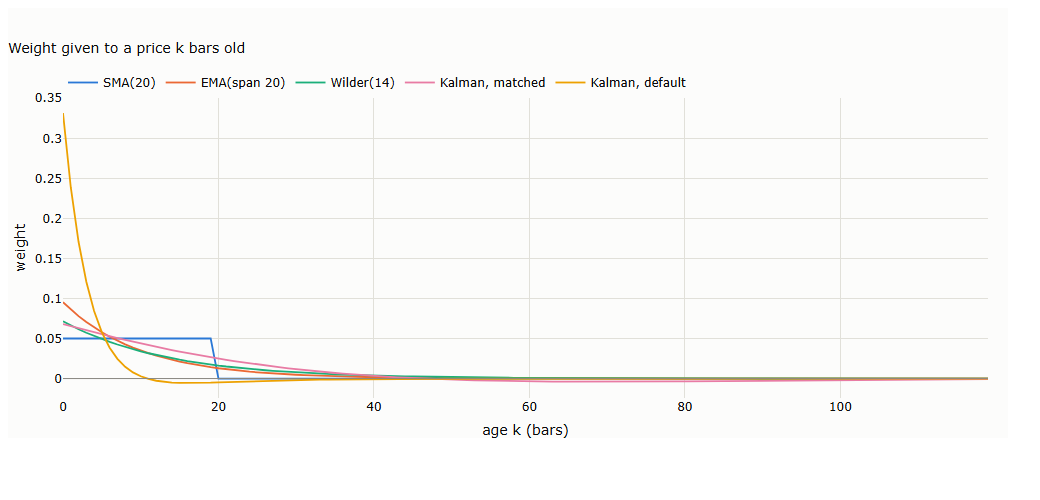
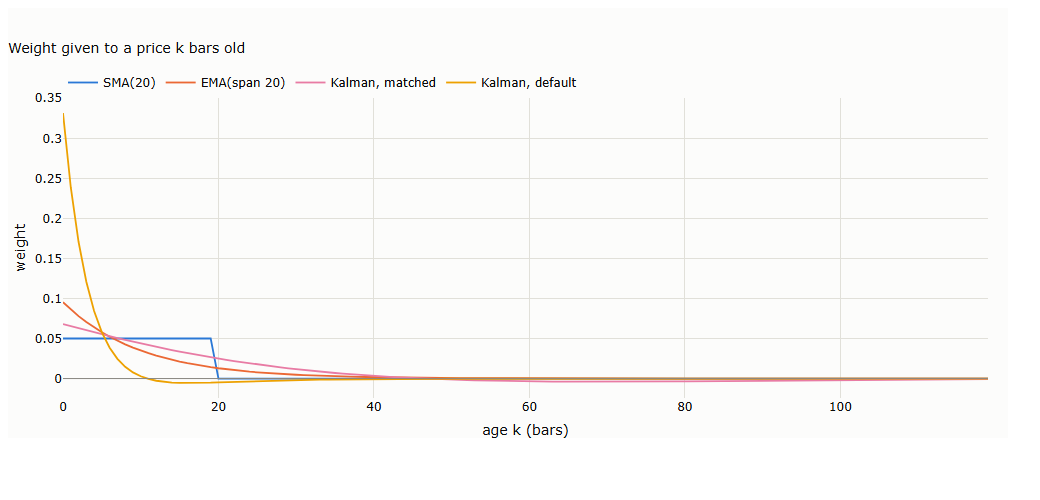
Move Wilder smoothing out of Lecture 2 into Lecture 3
- Lecture 2: drop the Wilder subsection, table rows, exercise, takeaway clause and reference; section 6.4 becomes 6.3
- Lecture 3: the 2n-1 memory result, the ~7n warm-up, and the point that both come from Wilder's
  smoothing rather than the true range (a plain n-bar mean of true ranges has exactly n bars of memory)
- Notebook 11 re-executed without Wilder; memory-weights chart regenerated

diff --git a/lectures/02-ohlcv-and-moving-averages/lecture.md b/lectures/02-ohlcv-and-moving-averages/lecture.md
@@ -220,17 +220,7 @@ Write any linear smoother as weights on past prices, $\hat p_t = \sum_k w_k p_{t
 
 An SMA($N$) has average age $(N-1)/2$. An EMA has average age $(1-\alpha)/\alpha$. Setting them equal gives $\alpha = 2/(N+1)$. Brown (1963) chose the convention for exactly this reason. It also makes the variance reduction factors equal: the EMA's is $\alpha/(2-\alpha)$, which at $\alpha = 2/(N+1)$ is $1/N$, the same as the SMA's.
 
-### 6.3 Wilder's period is not a window length
-
-Wilder's smoothing, used in ATR and ADX, is an EMA with $\alpha = 1/n$. Its average age is $n-1$. Matching that to a rolling window's $(N-1)/2$ gives
-
-```math
-N = 2n - 1
-```
-
-so **ATR(14) carries the memory of a 27-bar average, not a 14-bar one**. Lecture 3 uses this rule to choose window lengths for indicators read side by side.
-
-### 6.4 The Kalman filter needs the other measure
+### 6.3 The Kalman filter needs the other measure
 
 The local-linear-trend filter has zero average age by construction (§5.2), so average age cannot calibrate it. Its variance reduction factor can. Solving for the observation variance that gives a variance reduction of 1/20 yields $R = 0.20$.
 
@@ -238,7 +228,6 @@ The local-linear-trend filter has zero average age by construction (§5.2), so a
 |---|---|---|---|
 | SMA(20) | 9.5 | 0.050 | 20 |
 | EMA(span 20) | 9.5 | 0.050 | 20 |
-| Wilder(14) | 13.0 | 0.037 | 27 |
 | Kalman, matched ($R = 0.20$) | 0.0 | 0.050 | 20 |
 | Kalman, package default ($R = 10^{-3}$) | 0.0 | 0.224 | 4.5 |
 
@@ -352,7 +341,7 @@ Re-running each method at $N = 10$, 20 and 50 through the 2020 crash (the Kalman
 
 | Method | Memory | Needs volume | Decay shape | What breaks it | Common mistake |
 |---|---|---|---|---|---|
-| SMA | Rolling, hard edge at $N$ | No | Flat, then a cliff | A bar's influence vanishes at once $N$ bars later, moving the level with no price move | Reading SMA(20) and ATR(20) as the same length: ATR(20) has the memory of a 39-bar average |
+| SMA | Rolling, hard edge at $N$ | No | Flat, then a cliff | A bar's influence vanishes at once $N$ bars later, moving the level with no price move | Reading another method at the same $N$ as comparable without matching memory (§6) |
 | EMA | Expanding | No | Smooth geometric | Reacts to every move by the same fixed proportion | Mixing `adjust=True` with the textbook recursion |
 | VWAP | Rolling, hard edge at $N$ | Yes | Flat, weighted by size | One heavy bar dominates, then drops off the same cliff | Split-unadjusted volume with adjusted prices |
 | KAMA | Rolling ER, expanding recursion | No | Adaptive | A spike in the trend's direction makes it fastest, the reversal then freezes it | Judging its speed on clean examples |
@@ -369,7 +358,6 @@ No method needs the full price history. Each needs a limited warm-up before its 
 | SMA($N$) | Last $N$ prices and a running sum | $N-1$ bars; exact afterwards | 19 bars for $N = 20$ |
 | VWAP($N$) | Last $N$ prices and volumes, two running sums | $N-1$ bars; exact afterwards | 19 bars for $N = 20$ |
 | EMA($N$) | One number | $\approx 3.5N$ bars | $\approx 70$ bars for $N = 20$ |
-| Wilder($n$): ATR, ADX | One number per smoothed series | $\approx 7n$ bars | $\approx 93$ bars for $n = 14$ |
 | KAMA($n$) | One number and the last $n+1$ prices | Depends on the market: $\approx 12$ bars in a clean trend, up to $\approx 1{,}650$ in pure chop | QQQ, $n = 10$: median 82, maximum 132 bars |
 | Kalman (local linear trend) | Two states and their $2\times 2$ uncertainty | The longer of gain settling and the 0.1% memory horizon | $\approx 60$ bars (default), $\approx 200$ (matched) |
 
@@ -379,7 +367,7 @@ The rolling methods are exact once their window is full. The expanding methods n
 \mathrm{EMA}_t = \alpha\sum_{k\ge 0}(1-\alpha)^k\, p_{t-k}, \qquad \text{weight older than } k = (1-\alpha)^k \approx e^{-2k/(N+1)}
 ```
 
-At $k = 3.5N$ that is $e^{-7} \approx 0.1\%$. Wilder's smoothing uses $\alpha = 1/n$, so the same 0.1% takes about $7n$ bars: ATR(14) needs roughly 93 bars of warm-up, not 14. KAMA's $\alpha$ moves every bar between $\alpha_s^2 = 0.0042$ and $\alpha_f^2 = 0.44$, so its memory lengthens in choppy markets. These bounds follow from Kaufman's smoothing constants (Kaufman, 2013); the calculation is ours. That is a practical drawback: KAMA has no fixed warm-up, and the safe upper bound (about 1,650 bars, six and a half years of daily data) is rarely affordable. The workable fix is to measure it: start KAMA from two different values and treat it as warmed up once the two agree within 0.1%. On QQQ that took 82 bars at the median and 132 at worst (example below). The matched Kalman filter smooths like EMA(20), yet its slow trend component reaches back about 200 bars; starting it with a large initial uncertainty (a *diffuse* start) removes most of the starting-value error early (Durbin and Koopman, 2012, ch. 5). The Kalman figures are our own calculation with the filter settings of §6.
+At $k = 3.5N$ that is $e^{-7} \approx 0.1\%$. KAMA's $\alpha$ moves every bar between $\alpha_s^2 = 0.0042$ and $\alpha_f^2 = 0.44$, so its memory lengthens in choppy markets. These bounds follow from Kaufman's smoothing constants (Kaufman, 2013); the calculation is ours. That is a practical drawback: KAMA has no fixed warm-up, and the safe upper bound (about 1,650 bars, six and a half years of daily data) is rarely affordable. The workable fix is to measure it: start KAMA from two different values and treat it as warmed up once the two agree within 0.1%. On QQQ that took 82 bars at the median and 132 at worst (example below). The matched Kalman filter smooths like EMA(20), yet its slow trend component reaches back about 200 bars; starting it with a large initial uncertainty (a *diffuse* start) removes most of the starting-value error early (Durbin and Koopman, 2012, ch. 5). The Kalman figures are our own calculation with the filter settings of §6.
 
 **Example: when the backtest starts matters.** Two common ways to start KAMA(10), from the first price or from the average of the first 10 prices, compared from 311 monthly start dates on QQQ between 1999 and 2025 (our measurement for these notes):
 
@@ -393,7 +381,7 @@ At $k = 3.5N$ that is $e^{-7} \approx 0.1\%$. Wilder's smoothing uses $\alpha = 
 
 Warm-up tracks how choppy the first months are (correlation with mean ER: $-0.86$). In 71% of start dates the long/short signal, price above or below KAMA, differs on at least one day. A backtest starting in November 2008 with no warm-up would show different trades for almost three months purely because of a starting convention. An EMA(20) needs about 70 bars whatever the market.
 
-**Practical rule.** Before the backtest start date, load the longest warm-up among the indicators the strategy uses, compute on all of it, and discard the warm-up bars before measuring performance. In live trading, update each method from its stored state; never recompute from the start of the series. Libraries handle this explicitly. We use TA-Lib as the example because it is the long-standing open-source reference implementation of these indicators, used directly or through wrappers such as Python's `talib`, and it documents the issue: it calls the discarded stretch the *unstable period* and lets the user set it for EMA, ATR, ADX and KAMA, among others ([TA-Lib documentation](https://ta-lib.org/api/unstable-period/)).
+**Practical rule.** Before the backtest start date, load the longest warm-up among the indicators the strategy uses, compute on all of it, and discard the warm-up bars before measuring performance. In live trading, update each method from its stored state; never recompute from the start of the series. Libraries handle this explicitly. We use TA-Lib as the example because it is the long-standing open-source reference implementation of these indicators, used directly or through wrappers such as Python's `talib`, and it documents the issue: it calls the discarded stretch the *unstable period* and lets the user set it for EMA and KAMA, among others ([TA-Lib documentation](https://ta-lib.org/api/unstable-period/)).
 
 ### 9.2 Running it live
 
@@ -425,7 +413,7 @@ If exact reproducibility matters more than $O(1)$ updates, cap the history delib
 1. Building a bar is **compression** (data shrinks); aggregating bars is **filtering** (data does not shrink, signal is separated from noise).
 2. A bar's single price and the aggregation across bars are two separate design choices; on a wide bar the first alone can move "the price" by 16%.
 3. The methods differ only in how much each past bar counts, and in whether memory is rolling (SMA, VWAP), expanding (EMA, Kalman) or hybrid (KAMA).
-4. **Compare only at equal memory.** $\alpha = 2/(N+1)$ matches EMA to SMA; Wilder's $n$ equals a $2n-1$ bar window; the Kalman filter must be matched on variance reduction. At equal memory EMA beats SMA on QQQ in every period tested.
+4. **Compare only at equal memory.** $\alpha = 2/(N+1)$ matches EMA to SMA; the Kalman filter must be matched on variance reduction. At equal memory EMA beats SMA on QQQ in every period tested.
 5. Window length moves results more than the choice of method.
 
 ### 10.2 Exercises
@@ -433,7 +421,6 @@ If exact reproducibility matters more than $O(1)$ updates, cap the history delib
 - [ ] For a single bar, construct an example where Median Price and Body Midpoint differ by more than 1% of the close. What kind of session produces it? Find three such days in QQQ.
 - [ ] Reproduce the toy table in §7.1 and extend it to $N = 10$. Does the SMA/VWAP cliff at $t = 12$ disappear, move, or shrink?
 - [ ] Prove that an EMA with $\alpha = 2/(N+1)$ has the same average age and the same variance reduction factor as SMA($N$).
-- [ ] Show that Wilder's smoothing with period $n$ has average age $n-1$, and hence that ATR(14) matches a 27-bar window.
 - [ ] Construct a 5-bar window with one large reversal and find its ER. Can you make it arbitrarily close to 0? To 1?
 - [ ] Re-run the step test of §8.1 with Gaussian noise added to the input. How much slower does KAMA become?
 - [ ] Describe a market condition where one method from §4 gives a worse estimate of the "true" level than plain SMA.
@@ -446,7 +433,6 @@ If exact reproducibility matters more than $O(1)$ updates, cap the history delib
 - Hyndman, R., Koehler, A., Ord, J.K. and Snyder, R. (2008). *Forecasting with Exponential Smoothing: The State Space Approach.* Springer. — exponential smoothing and its starting values (§9.1).
 - Durbin, J. and Koopman, S.J. (2012). *Time Series Analysis by State Space Methods* (2nd ed.). Oxford University Press. — ch. 5, starting a Kalman filter, including the diffuse start (§9.1).
 - Kaufman, P. (2013). *Trading Systems and Methods* (5th ed.). Wiley. — KAMA.
-- Wilder, J.W. (1978). *New Concepts in Technical Trading Systems.* Trend Research.
 - Ehlers, J. (2001). *Rocket Science for Traders.* Wiley.
 - Chan, E. (2013). *Algorithmic Trading.* Wiley. — Kalman filters for hedge ratios.
 - Berkowitz, S., Logue, D. and Noser, E. (1988). The total cost of transactions on the NYSE. *Journal of Finance.* — VWAP as an execution benchmark.
@@ -460,9 +446,9 @@ From the companion notebook, [11_price_aggregation_methods.ipynb](11_price_aggre
 
 ### A.1 Weight given to a price k bars old (§6)
 
-![Weight profiles of SMA(20), EMA(20), Wilder(14) and two Kalman filters](figures/11_01_memory_weights.png)
+![Weight profiles of SMA(20), EMA(20) and two Kalman filters](figures/11_01_memory_weights.png)
 
-SMA is flat then cuts off at 20. EMA and Wilder(14) decay smoothly, Wilder more slowly (27-bar memory). The matched Kalman filter's weights dip slightly below zero for old bars, which is how it removes trend lag. The default Kalman filter puts a third of its weight on today.
+SMA is flat then cuts off at 20; EMA decays smoothly. The matched Kalman filter's weights dip slightly below zero for old bars, which is how it removes trend lag. The default Kalman filter puts a third of its weight on today.
 
 ### A.2 Responses to a step and a ramp (§8.1)
 

diff --git a/lectures/03-same-bars-different-questions/lecture.md b/lectures/03-same-bars-different-questions/lecture.md
@@ -83,7 +83,7 @@ The **Average True Range** (Wilder, 1978) smooths it with Wilder's recursion:
 \mathrm{ATR}_t = \mathrm{ATR}_{t-1} + \frac{1}{n}\big(\mathrm{TR}_t - \mathrm{ATR}_{t-1}\big)
 ```
 
-This is an EMA with $\alpha = 1/n$, so ATR is **expanding**, not a window of recent ranges, even though "period" looks like a window size. Lecture 2 §6.3 showed ATR(14) has the memory of a 27-bar average.
+This is an EMA with $\alpha = 1/n$, so ATR is **expanding**, not a window of recent ranges, even though "period" looks like a window size. Its average age is $n-1$ bars, against $(N-1)/2$ for a rolling window of $N$ bars (Lecture 2, §6.1), so ATR($n$) carries the memory of a $2n-1$ bar average: ATR(14) looks back like a 27-bar window, not a 14-bar one. It also needs a warm-up of about $7n$ bars, roughly 93 for ATR(14), by the rule in Lecture 2, §9.1. Both effects come from Wilder's smoothing, not from the true range: averaging the same true ranges with a plain $n$-bar mean (an SMA) gives an ATR whose memory is exactly $n$ bars and which is exact after $n-1$ bars. Wilder's choice is one of the weighting schemes Lecture 2 compares.
 
 ### 3.2 Toy series ($n = 5$)
 
@@ -193,7 +193,7 @@ Windows in this lecture are set by two rules, not by convention: match memory fo
 
 ### 5.1 Matching memory
 
-Lecture 2 §6.3 showed that Wilder's period $n$ carries the memory of a $2n-1$ bar rolling window. ATR(14) and ADX(14) therefore look back like a **27-bar** window, so the volatility estimators, the efficiency ratio and the order imbalance below all use 27 bars. The common defaults 14 and 20 have no shared basis and should not be read together as if they did.
+Wilder's period $n$ carries the memory of a $2n-1$ bar rolling window (§3.1). ATR(14) and ADX(14) therefore look back like a **27-bar** window, so the volatility estimators, the efficiency ratio and the order imbalance below all use 27 bars. The common defaults 14 and 20 have no shared basis and should not be read together as if they did.
 
 ### 5.2 Matching precision
 
@@ -480,6 +480,7 @@ Implementations of Wilder's smoothing differ in how the first value is seeded: W
 - [ ] Prove that for $n$ points the sample skewness cannot exceed $(n-2)/\sqrt{n-1}$. Which configuration attains it?
 - [ ] Re-run the bootstrap of §10.2 with block lengths of 5, 21 and 63 days. How does the kurtosis band change, and why?
 - [ ] Construct a 5-bar window of two series where correlation and beta move in the **same** direction. What must be true of their relative move sizes?
+- [ ] Show that Wilder's smoothing with period $n$ has average age $n-1$, and hence that ATR(14) matches a 27-bar window. Then recompute the toy ATR in §3.2 with a plain 5-bar mean of the true ranges instead: how do the peak and the decay change?
 
 ### 12.3 Reading list
 
